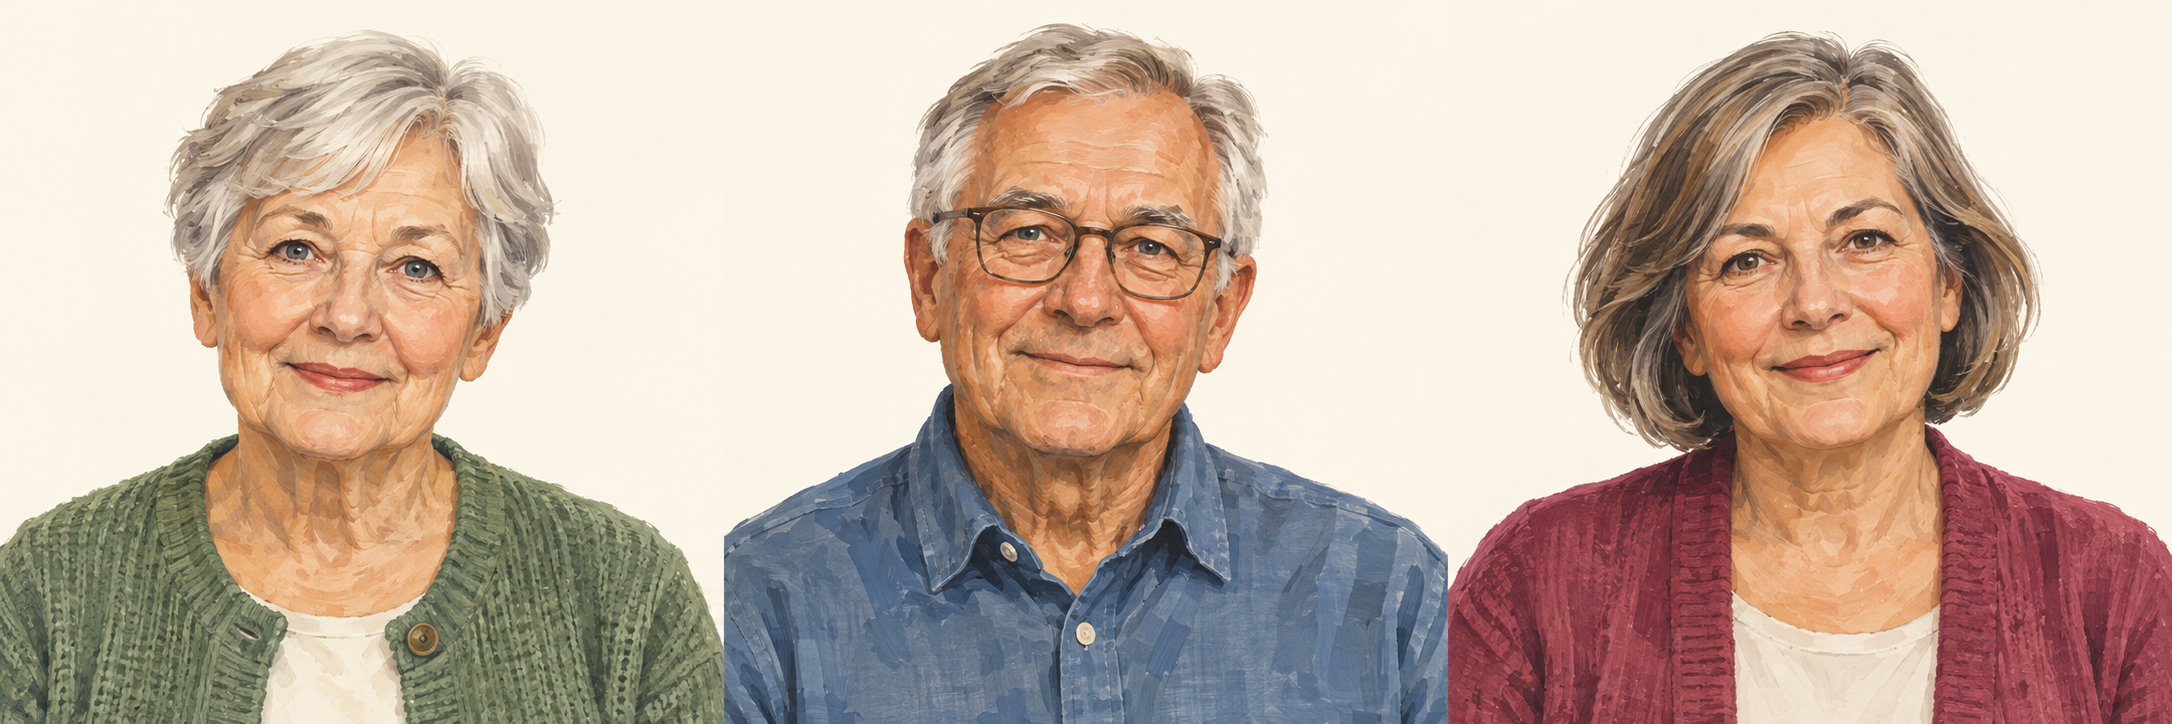
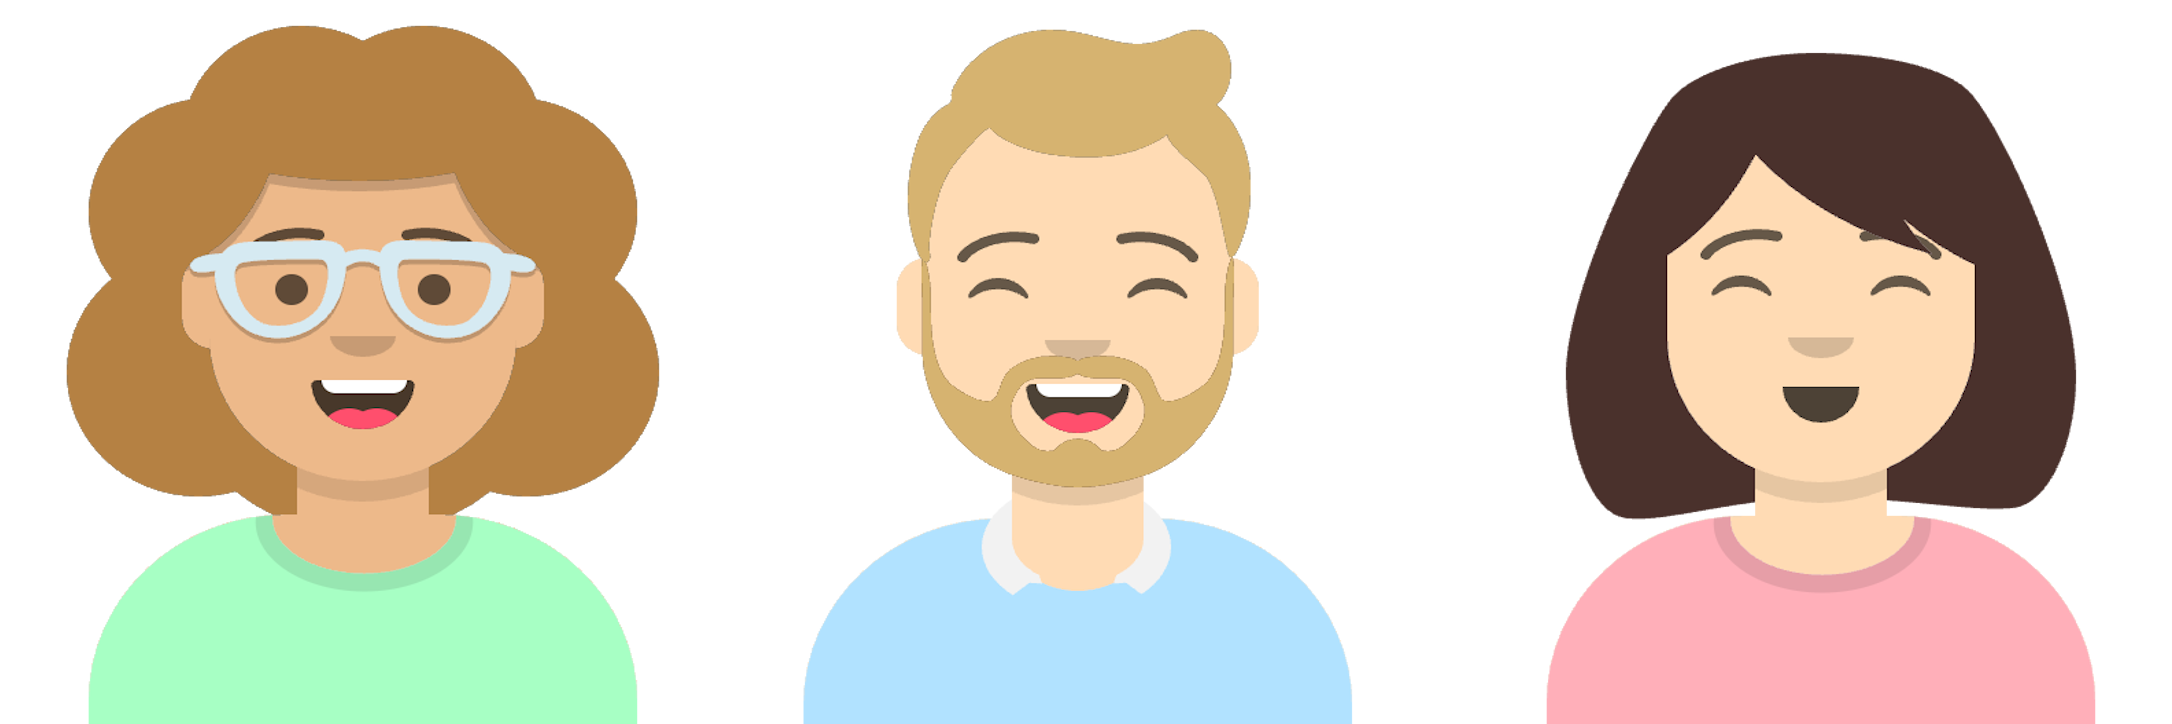
swap ai slop with actual images

diff --git a/client/src/pages/FinancialFraud/investmentOffers.ts b/client/src/pages/FinancialFraud/investmentOffers.ts
@@ -8,7 +8,7 @@ export const villageImage: { src: string | null; alt: string } = {
 export const investmentMessages = [
   {
     message:
-      "Sijoituksen tarjoaja soitti puhelun lomakylää perustavasta yrityksestä, jonka tiedot löytyvät verkosta. Pankille tai läheisille tarjouksesta ei kuulemma saisi kertoa tarjouksesta, sillä se on erikoistarjous vain Simolle. Simo kertoi tarjoajan olleen puhelussa kovin ystävällinen ja vakuuttava.",
+      "Sijoituksen tarjoaja soitti puhelun lomakylää perustavan yrityksen nimissä. Yrityksen tiedot löytyvät verkosta. Pankille tai läheisille tarjouksesta ei kuulemma saisi kertoa tarjouksesta, sillä se on erikoistarjous vain Simolle. Simo kertoi tarjoajan olleen puhelussa kovin ystävällinen ja vakuuttava.",
     hasImage: false,
     parts: [
       {
@@ -26,6 +26,10 @@ export const investmentMessages = [
       {
         id: "salesman",
         text: "Sijoituksen tarjoja vaikutti ystävälliseltä ja vakuuttavalta.",
+      },
+      {
+        id: "searched",
+        text: "Yrityksen tiedot löytyvät verkosta.",
       },
     ],
   },

diff --git a/client/src/components/CourseGuide.tsx b/client/src/components/CourseGuide.tsx
@@ -10,11 +10,18 @@ const courseOverviews: Record<string, string> = {
     "Tutustu romanssi- ja sijoitushuijausten varoitusmerkkeihin. Pohdi verkossa syntyvää luottamusta ja rahapyyntöjä.",
 };
 
-export function CharacterPortrait({ courseId }: { courseId: string }) {
+export function CharacterPortrait({
+  courseId,
+  complete = false,
+}: {
+  courseId: string;
+  complete?: boolean;
+}) {
   return (
     <span
       className={styles.portrait}
       data-character={courseId}
+      data-complete={complete}
       aria-hidden="true"
     />
   );

diff --git a/client/src/pages/PasswordCourse/SannaActivity.tsx b/client/src/pages/PasswordCourse/SannaActivity.tsx
@@ -154,7 +154,10 @@ export default function SannaActivity({
         </header>
         <div className={own.companion}>
           <div className={own.portrait}>
-            <CharacterPortrait courseId="passwords" />
+            <CharacterPortrait
+              courseId="passwords"
+              complete={stage === "complete"}
+            />
           </div>
           <p>
             Sanna on kuvitteellinen harjoituskaverisi. Tehtäväsi on auttaa häntä

diff --git a/client/src/pages/PhishingCourse/KaarloActivity.tsx b/client/src/pages/PhishingCourse/KaarloActivity.tsx
@@ -47,7 +47,10 @@ export default function KaarloActivity({
           <div className={styles.kaarloConcern}>
             {stage !== "email" && (
               <div className={styles.kaarloPortrait}>
-                <CharacterPortrait courseId="phishing" />
+                <CharacterPortrait
+                  courseId="phishing"
+                  complete={stage === "complete"}
+                />
               </div>
             )}
             <p>

diff --git a/client/src/components/CourseGuide.module.css b/client/src/components/CourseGuide.module.css
@@ -2,10 +2,13 @@
   display: block;
   width: 100%;
   aspect-ratio: 1;
-  background-image: url("/images/course-characters.png");
+  background-image: url("/images/course-characters-sad.png");
   background-size: 300% 100%;
   background-repeat: no-repeat;
   border-radius: 50%;
+}
+.portrait[data-complete="true"] {
+  background-image: url("/images/course-characters.png");
 }
 .portrait[data-character="passwords"] {
   background-position: left center;

diff --git a/client/src/pages/FinancialFraud/InvestmentActivity.tsx b/client/src/pages/FinancialFraud/InvestmentActivity.tsx
@@ -150,6 +150,9 @@ export default function InvestmentActivity({
         </header>
         {submitted ? (
           <section className={styles.result} aria-labelledby="result-heading">
+            <div className={styles.portrait}>
+              <CharacterPortrait courseId="financial-fraud" complete />
+            </div>
             <h2 id="result-heading" ref={resultRef} tabIndex={-1}>
               Oma arviosi
             </h2>
